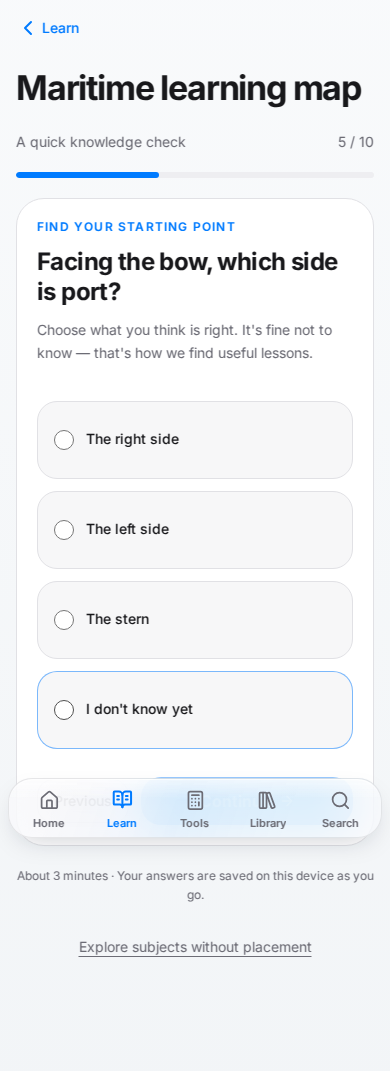
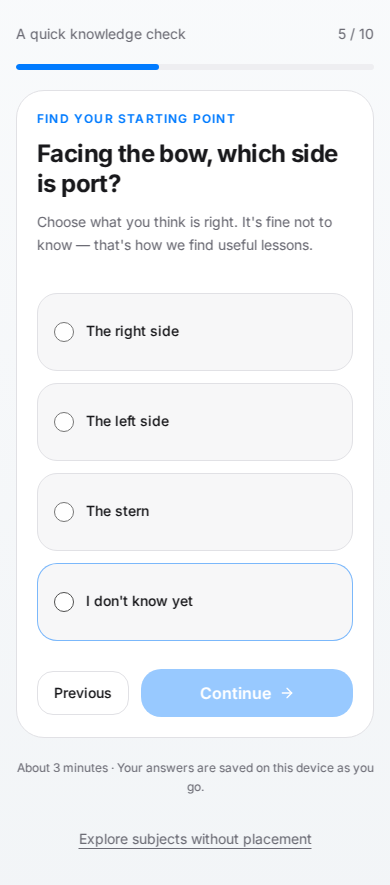
Hide app navigation while answering learning placement questions

diff --git a/src/components/curriculum/LearningAssessment.tsx b/src/components/curriculum/LearningAssessment.tsx
@@ -1,4 +1,5 @@
 import { useEffect, useRef, useState } from "react";
+import { useHideAppChrome } from "@/hooks/useAppChromeVisibility";
 import { Link } from "react-router-dom";
 import { ArrowRight, Check, Compass, RotateCcw } from "lucide-react";
 import { getCurriculumCourse } from "@/data/curriculumHierarchy";
@@ -12,6 +13,7 @@ export function LearningAssessment({ storageKey, onExplore }: { storageKey: stri
   const [state, setState] = useState<AssessmentState>(() => {
     try { return parseAssessment(localStorage.getItem(storageKey)); } catch { return emptyAssessment(); }
   });
+  useHideAppChrome(!state.completed);
   const [saveFailed, setSaveFailed] = useState(false);
   const title = useRef<HTMLHeadingElement>(null);
   const hasNavigated = useRef(false);
@@ -39,7 +41,7 @@ export function LearningAssessment({ storageKey, onExplore }: { storageKey: stri
       <div className="space-y-4 rounded-3xl border bg-card p-6 sm:p-8">
         <Compass className="h-9 w-9 text-primary" aria-hidden />
         <p className="text-xs font-semibold uppercase tracking-widest text-muted-foreground">Your starting point</p>
-        <h2 ref={title} tabIndex={-1} className="text-3xl font-bold tracking-tight outline-none">{result.level}</h2>
+        <h1 ref={title} tabIndex={-1} className="text-3xl font-bold tracking-tight outline-none">{result.level}</h1>
         <p className="text-muted-foreground">{result.correct} / {result.total} knowledge questions answered correctly. This short sample suggests where to start; it does not establish professional competence.</p>
         <p className="text-sm">{profileQuestions[3].options[state.answers.pace]}</p>
         <p className="text-sm text-muted-foreground">{state.answers.pace === 0 ? "Read one idea and explain it in your own words." : state.answers.pace === 1 ? "Read a lesson, then try its linked practice questions." : "Read, practise and revisit the points you found difficult."}</p>
@@ -79,7 +81,7 @@ export function LearningAssessment({ storageKey, onExplore }: { storageKey: stri
       <div role="progressbar" aria-label="Placement progress" aria-valuemin={0} aria-valuemax={steps.length} aria-valuenow={state.step} className="h-1.5 overflow-hidden rounded-full bg-muted"><div className="h-full rounded-full bg-primary transition-[width] motion-reduce:transition-none" style={{ width: `${state.step / steps.length * 100}%` }} /></div>
       <div className="rounded-3xl border bg-card p-5 sm:p-8">
         <p className="mb-3 text-xs font-semibold uppercase tracking-widest text-primary">{diagnostic ? "Find your starting point" : "A path that fits you"}</p>
-        <h2 ref={title} tabIndex={-1} id="placement-question" className="text-2xl font-bold leading-tight tracking-tight outline-none sm:text-3xl">{question.title}</h2>
+        <h1 ref={title} tabIndex={-1} id="placement-question" className="text-2xl font-bold leading-tight tracking-tight outline-none sm:text-3xl">{question.title}</h1>
         <p className="mt-3 text-sm leading-relaxed text-muted-foreground">{"hint" in question ? question.hint : "Choose what you think is right. It's fine not to know — that's how we find useful lessons."}</p>
         <fieldset aria-labelledby="placement-question" className="mt-6 space-y-3">
           <legend className="sr-only">Choose one answer</legend>

diff --git a/src/components/AppNavBar.tsx b/src/components/AppNavBar.tsx
@@ -15,7 +15,7 @@ import { motion, useReducedMotion } from "framer-motion";
 import { AppSymbol } from "@/components/ui/AppSymbol";
 import { useBackNavigation } from "@/hooks/useBackNavigation";
 import { findParentPath } from "@/hooks/useNavigationHierarchy";
-import { isAppChromeHidden } from "@/lib/appChrome";
+import { useAppChromeHidden } from "@/hooks/useAppChromeVisibility";
 import { useLanguage } from "@/contexts/useLanguage";
 import { getCoreUiTranslation } from "@/i18n/coreUiTranslations";
 
@@ -69,6 +69,7 @@ const readRouteHeading = (pathname: string): string => {
  */
 export function AppNavBar() {
   const { pathname } = useLocation();
+  const chromeHidden = useAppChromeHidden();
   const { goBack, canGoBack } = useBackNavigation();
   const { currentLanguage } = useLanguage();
   const [collapsed, setCollapsed] = useState(false);
@@ -89,7 +90,7 @@ export function AppNavBar() {
   useEffect(() => {
     setCollapsed(false);
     setTitle(localizedKnownTitle(pathname, currentLanguage));
-    if (!canGoBack || isAppChromeHidden(pathname)) return;
+    if (!canGoBack || chromeHidden) return;
 
     let frame = 0;
     let observed: HTMLElement | null = null;
@@ -135,7 +136,7 @@ export function AppNavBar() {
       observer.disconnect();
       window.cancelAnimationFrame(frame);
     };
-  }, [canGoBack, currentLanguage, pathname]);
+  }, [canGoBack, chromeHidden, currentLanguage, pathname]);
 
   useEffect(() => {
     const handleScroll = () => {
@@ -161,7 +162,7 @@ export function AppNavBar() {
     return () => window.clearTimeout(timer);
   }, [pathname, studyKind, title]);
 
-  if (!canGoBack || isAppChromeHidden(pathname)) return null;
+  if (!canGoBack || chromeHidden) return null;
 
   return (
     <header

diff --git a/src/pages/curriculum/MaritimeLearningMapPage.tsx b/src/pages/curriculum/MaritimeLearningMapPage.tsx
@@ -39,10 +39,14 @@ export default function MaritimeLearningMapPage() {
   const storageKey = assessmentStorageKey(getLearningProgressAccount());
   const activePath = paths.find((entry) => entry.id === pathId)!;
   const needle = normalise(query.trim());
+  if (!exploring) return (
+    <div className="min-h-[100svh] px-[max(1rem,var(--safe-left))] pt-[calc(var(--safe-top)+1.5rem)] pb-[calc(var(--safe-bottom)+1.5rem)]">
+      <LearningAssessment key={storageKey} storageKey={storageKey} onExplore={() => setExploring(true)} />
+    </div>
+  );
   let results = 0;
   return (
     <LibraryPageShell title="Maritime learning map" icon={Compass} maxWidth="max-w-5xl">
-      {!exploring ? <LearningAssessment key={storageKey} storageKey={storageKey} onExplore={() => setExploring(true)} /> : <>
       <button type="button" className="self-start min-h-11 rounded-xl border px-4 py-2 text-sm font-semibold" onClick={() => setExploring(false)}>My personal learning path</button>
       <p className="max-w-3xl text-base leading-relaxed text-muted-foreground">Understand the whole ship, find a subject and follow its branches from a first principle to shipboard practice.</p>
       <LearningProgressStatus />
@@ -104,7 +108,6 @@ export default function MaritimeLearningMapPage() {
         })}
         {needle && results === 0 && <p role="status" className="rounded-xl border border-dashed p-6 text-sm text-muted-foreground">No matching topics found. Try another term or explore a branch.</p>}
       </section>
-      </>}
     </LibraryPageShell>
   );
 }

diff --git a/src/hooks/useAppChromeVisibility.ts b/src/hooks/useAppChromeVisibility.ts
@@ -1,0 +1,37 @@
+import { useLayoutEffect, useSyncExternalStore } from "react";
+import { useLocation } from "react-router-dom";
+import { isAppChromeHidden } from "@/lib/appChrome";
+
+// Route-keyed leases keep an outgoing animated page from hiding the new page's
+// navigation. A lease is removed on completion, exit or unmount (also StrictMode).
+const leases = new Map<symbol, string>();
+const listeners = new Set<() => void>();
+const subscribe = (listener: () => void) => {
+  listeners.add(listener);
+  return () => { listeners.delete(listener); };
+};
+const notify = () => listeners.forEach((listener) => listener());
+const routeToken = (location: ReturnType<typeof useLocation>) =>
+  JSON.stringify([location.key, location.pathname, location.search, location.hash]);
+
+export function useHideAppChrome(active: boolean) {
+  const token = routeToken(useLocation());
+  useLayoutEffect(() => {
+    if (!active) return;
+    const lease = Symbol("focused-study");
+    leases.set(lease, token);
+    notify();
+    return () => { leases.delete(lease); notify(); };
+  }, [active, token]);
+}
+
+export function useAppChromeHidden() {
+  const location = useLocation();
+  const token = routeToken(location);
+  const focused = useSyncExternalStore(
+    subscribe,
+    () => [...leases.values()].includes(token),
+    () => false,
+  );
+  return focused || isAppChromeHidden(location.pathname);
+}

diff --git a/src/App.tsx b/src/App.tsx
@@ -33,7 +33,7 @@ import { RequireAuth } from "@/components/auth/RequireAuth";
 import { ProRoute, LibraryBookRoute } from "@/components/pro/ProRoute";
 import { AdsController } from "@/components/ads/AdsController";
 import { prefersReducedMotion } from "@/hooks/useAppMotion";
-import { isAppChromeHidden } from "@/lib/appChrome";
+import { useAppChromeHidden } from "@/hooks/useAppChromeVisibility";
 import { captureRoutePreview } from "@/lib/navigationPreview";
 import { hasHierarchicalBack } from "@/lib/appNavigation";
 
@@ -239,6 +239,7 @@ const RouteErrorFallback = ({ pathname }: { pathname: string }) => (
 
 const AnimatedRoutes = () => {
   const location = useLocation();
+  const chromeHidden = useAppChromeHidden();
 
   // Wire up hierarchical back-button handling. The back button never
   // exits the app — see useNavigationHierarchy for the policy.
@@ -298,7 +299,7 @@ const AnimatedRoutes = () => {
         key={location.pathname}
         pathname={location.pathname}
         direction={getNavigationDirection()}
-        navbar={hasHierarchicalBack(location.pathname) && !isAppChromeHidden(location.pathname)}
+        navbar={hasHierarchicalBack(location.pathname) && !chromeHidden}
       >
 
         <div className="interactive-page-surface min-h-[100svh] w-full">

diff --git a/src/components/EdgeSwipeBack.tsx b/src/components/EdgeSwipeBack.tsx
@@ -5,7 +5,7 @@ import { AppSymbol } from "@/components/ui/AppSymbol";
 import { useBackNavigation } from "@/hooks/useBackNavigation";
 import { hapticImpact } from "@/lib/haptics";
 import { useLocation } from "react-router-dom";
-import { isAppChromeHidden } from "@/lib/appChrome";
+import { useAppChromeHidden } from "@/hooks/useAppChromeVisibility";
 import { findParentPath } from "@/hooks/useNavigationHierarchy";
 import { clearRoutePreviewHost, mountRoutePreview } from "@/lib/navigationPreview";
 import { MOTION_SECONDS } from "@/hooks/useAppMotion";
@@ -15,7 +15,8 @@ const EDGE_WIDTH = 24;
 export const EdgeSwipeBack = () => {
   const { goBack, canGoBack } = useBackNavigation();
   const { pathname } = useLocation();
-  const enabled = canGoBack && !isAppChromeHidden(pathname);
+  const chromeHidden = useAppChromeHidden();
+  const enabled = canGoBack && !chromeHidden;
   const [pull, setPull] = useState(0);
   const [active, setActive] = useState(false);
   const startX = useRef(0);

diff --git a/src/components/AppTabBar.tsx b/src/components/AppTabBar.tsx
@@ -11,7 +11,7 @@ import {
 import { AppSymbol } from "@/components/ui/AppSymbol";
 import { cn } from "@/lib/utils";
 import { hapticSelection } from "@/lib/haptics";
-import { isAppChromeHidden } from "@/lib/appChrome";
+import { useAppChromeHidden } from "@/hooks/useAppChromeVisibility";
 import { useLanguage } from "@/contexts/useLanguage";
 import { getCoreUiTranslation } from "@/i18n/coreUiTranslations";
 import { APP_TAB_ROOTS, appTabForPath, type AppTabId } from "@/lib/appNavigation";
@@ -41,7 +41,7 @@ const lastRouteByTab: Record<AppTabId, string> = { ...APP_TAB_ROOTS };
 export function AppTabBar() {
   const { pathname } = useLocation();
   const { currentLanguage } = useLanguage();
-  const hidden = isAppChromeHidden(pathname);
+  const hidden = useAppChromeHidden();
   const activeTab = appTabForPath(pathname);
   const localize = (source: string) => getCoreUiTranslation(source, currentLanguage) ?? source;
 
